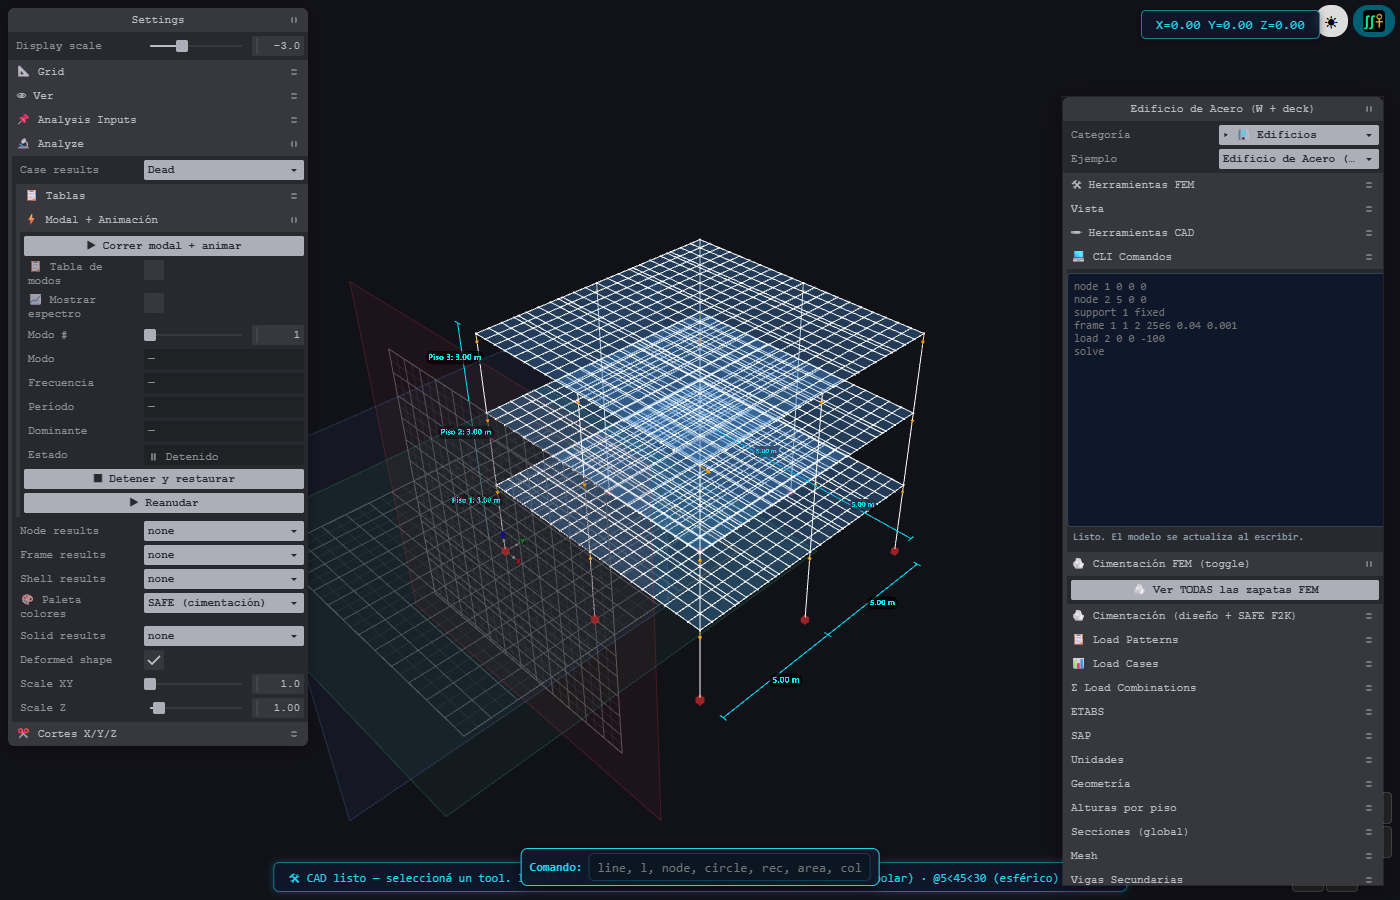
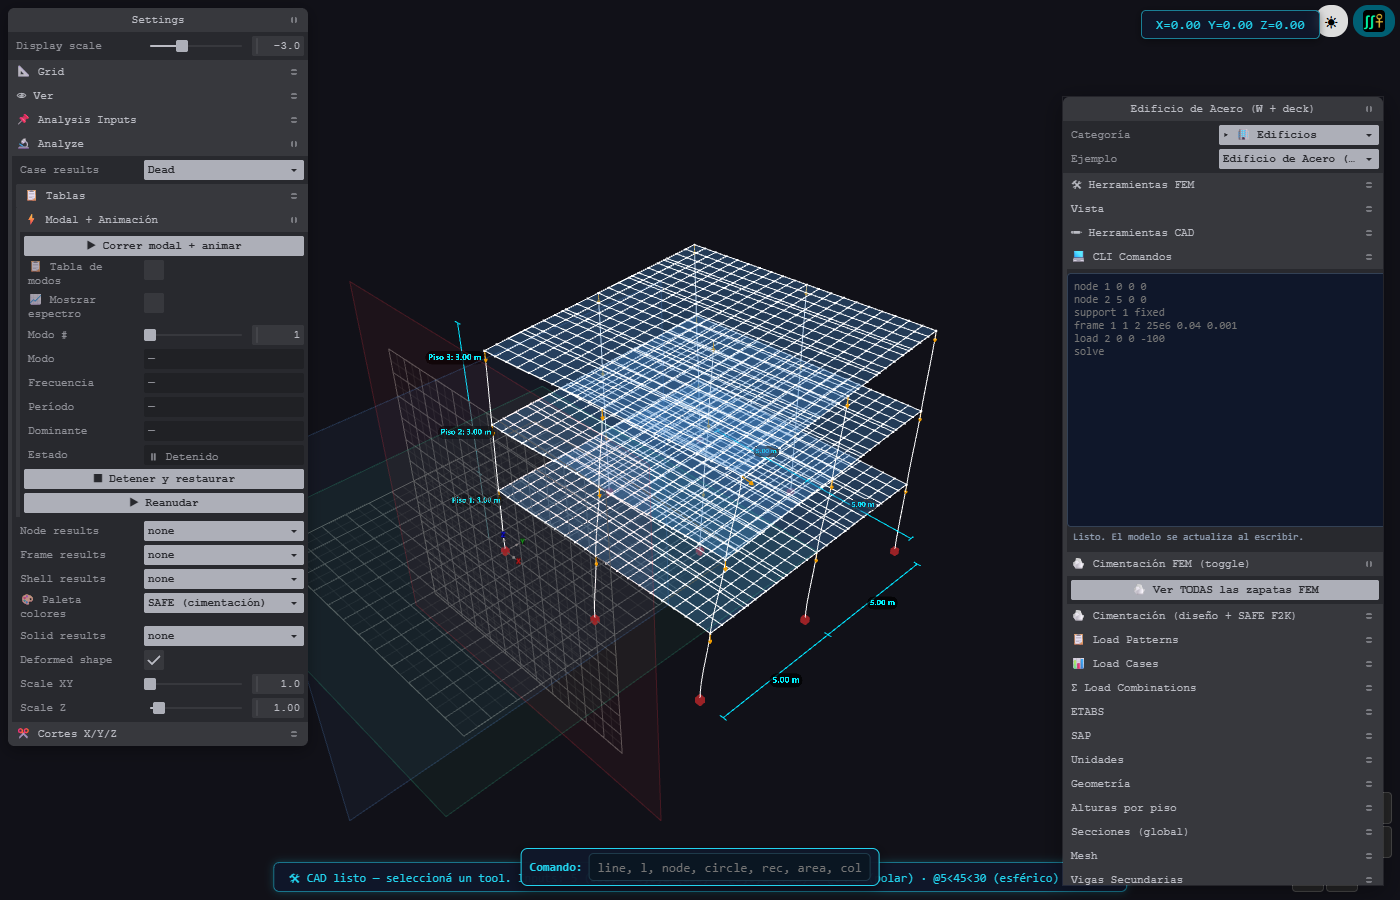
Dos edificios que NO resolvian: 450 nudos con z=NaN y unas vigas que flotaban
Siguiendo lo que Jorge vio en pantalla, y midiendo en vez de mirar el codigo:

1) `edificio-dual`: 450 nudos con z = NaN, desde el nudo 81 (el primero del
   piso 9). Las alturas salian de un array LITERAL de ocho
   -[p.hP_1 ... p.hP_8]- con un `.slice(0, np)` detras, y el ejemplo pide DIEZ
   pisos. El slice nunca falla: solo devuelve menos, asi que los pisos 9 y 10 se
   cotaban con `undefined` y daban NaN. El solver moria con "Matrix
   decomposition failed" y ETABS importaba joints con coordenada NaN. Ahora las
   luces y alturas se leen por nombre (`hP_${i}`), que es lo que `dynamicParams`
   genera, sin tope escrito a mano.
   Antes: 3987 nudos, 0 deformaciones, SumaFz -630 y SumaRz 0.
   Ahora: 4419 nudos, 4419 deformaciones, equilibrio 0.000 exacto.

2) `edif-acero`: matriz singular, 0 deformaciones, SumaRz = 0. Localizado por
   biseccion (apagando partes): son las VIGAS SECUNDARIAS. Nacian en un nudo
   nuevo sobre la viga principal -(0, 1.67, 3)- y la viga principal seguia de
   esquina a esquina sin enterarse, asi que la secundaria entera quedaba
   FLOTANDO: seis grados de libertad de solido rigido. Se veia en que 24 nudos
   tocaban un solo elemento (los dos extremos de 12 vigas colgadas de la nada).
   `findOrCreateNode` ahora parte la barra que pasa por el nudo nuevo.
   Ahora: 1368 deformaciones, equilibrio -0.000, y ningun nudo suelto.

Y el test que faltaba, `tests/casos/salud_ejemplos.mjs`, que cubre los 88
[…]

Changed region(s): [[0.3379, 0.2489, 0.6757, 0.7156]]

diff --git a/examples/src/edificio-aporticado/edificioAporticado.ts b/examples/src/edificio-aporticado/edificioAporticado.ts
@@ -399,13 +399,29 @@ export const edificioAporticado: ExampleDef = {
     const Gc = Ec / (2 * (1 + nu_c));
     const Gs = Es / (2 * (1 + nu_s));
 
-    // Arrays de luces individuales
-    const svX = [p.svX_1, p.svX_2, p.svX_3, p.svX_4, p.svX_5, p.svX_6]
-      .slice(0, nvx).map(v => (v > 0 ? v : p.spanX));
-    const svY = [p.svY_1, p.svY_2, p.svY_3, p.svY_4, p.svY_5, p.svY_6]
-      .slice(0, nvy).map(v => (v > 0 ? v : p.spanY));
-    const hpisos = [p.hP_1, p.hP_2, p.hP_3, p.hP_4, p.hP_5, p.hP_6, p.hP_7, p.hP_8]
-      .slice(0, np).map(v => (v > 0 ? v : p.hPiso));
+    /**
+     * Luces y alturas, una por vano y por piso.
+     *
+     * Antes eran arrays LITERALES de 6 y de 8 (`[p.hP_1 … p.hP_8]`) y luego un
+     * `.slice(0, np)`. Con más pisos que huecos el slice no rellena nada: el
+     * array se queda corto, las cotas de los pisos que sobran se calculan con
+     * `undefined` y salen **NaN**. Es lo que le pasaba a `edificio-dual`, que
+     * pide 10 pisos: **450 nudos con z = NaN** desde el nudo 81 (el primero del
+     * piso 9), el solver tiraba «Matrix decomposition failed» y ETABS importaba
+     * joints con la coordenada NaN. El `.slice` escondía el problema porque
+     * nunca falla: solo devuelve menos.
+     *
+     * `dynamicParams` ya genera `hP_i` y `svX_i` para todos los que haga falta,
+     * así que se leen por nombre y no de una lista escrita a mano.
+     */
+    const porIndice = (prefijo: string, n: number, porDefecto: number) =>
+      Array.from({ length: n }, (_, i) => {
+        const v = (p as any)[`${prefijo}${i + 1}`];
+        return typeof v === "number" && v > 0 ? v : porDefecto;
+      });
+    const svX = porIndice("svX_", nvx, p.spanX);
+    const svY = porIndice("svY_", nvy, p.spanY);
+    const hpisos = porIndice("hP_", np, p.hPiso);
 
     // Grid coords
     const xCoords: number[] = [];
@@ -489,11 +505,50 @@ export const edificioAporticado: ExampleDef = {
     // Vigas secundarias
     if (p.vSecOn >= 0.5 && p.nVSec >= 1) {
       const nVSec = Math.round(p.nVSec);
+      /**
+       * Parte en dos cualquier barra que PASE por este nudo sin tenerlo de
+       * extremo.
+       *
+       * Sin esto, la viga secundaria nacía en un nudo NUEVO sobre la viga
+       * principal —(0, 1.67, 3), por ejemplo— y esa viga principal seguía
+       * yendo de esquina a esquina sin enterarse: la secundaria entera quedaba
+       * FLOTANDO, sin tocar nada. Seis grados de libertad de sólido rígido, o
+       * sea matriz SINGULAR. `edif-acero` (que trae `vSecOn` encendido) no
+       * resolvía: 0 deformaciones, ΣRz = 0 y el solver avisando «LDLT failed…
+       * Matrix decomposition failed». Medido: con `vSecOn=0` resolvía y
+       * equilibraba exacto; con las secundarias, 24 nudos tocaban un solo
+       * elemento — los dos extremos de 12 vigas colgadas de la nada.
+       */
+      const partirBarrasEn = (ni: number) => {
+        const P = nodes[ni];
+        for (let e = elements.length - 1; e >= 0; e--) {
+          const el = elements[e];
+          if (el.length !== 2) continue;
+          const [a, b] = el;
+          if (a === ni || b === ni) continue;
+          const A = nodes[a], B = nodes[b];
+          const d = [B[0]-A[0], B[1]-A[1], B[2]-A[2]];
+          const v = [P[0]-A[0], P[1]-A[1], P[2]-A[2]];
+          const L2 = d[0]**2 + d[1]**2 + d[2]**2;
+          if (L2 < 1e-12) continue;
+          const t = (v[0]*d[0] + v[1]*d[1] + v[2]*d[2]) / L2;
+          if (t < 1e-6 || t > 1 - 1e-6) continue;          // el nudo es un extremo
+          if (Math.hypot(v[0]-t*d[0], v[1]-t*d[1], v[2]-t*d[2]) > 1e-6) continue;
+          elements[e] = [a, ni];
+          const nuevo = elements.length;
+          elements.push([ni, b]);
+          // el trozo nuevo es del mismo tipo que el que se partió
+          if (beamIdx.has(e)) beamIdx.add(nuevo);
+          if (colIdx.has(e)) colIdx.add(nuevo);
+        }
+      };
       const findOrCreateNode = (x: number, y: number, z: number): number => {
         for (let ni = 0; ni < nodes.length; ni++) {
           if (Math.abs(nodes[ni][0]-x)<1e-6 && Math.abs(nodes[ni][1]-y)<1e-6 && Math.abs(nodes[ni][2]-z)<1e-6) return ni;
         }
-        const idx = nodes.length; nodes.push([x, y, z]); return idx;
+        const idx = nodes.length; nodes.push([x, y, z]);
+        partirBarrasEn(idx);      // que la viga principal se entere
+        return idx;
       };
       const dir = p.vSecDir < 0.5 ? 'x' : 'y';
       for (let iz = 1; iz < zCoords.length; iz++) {
